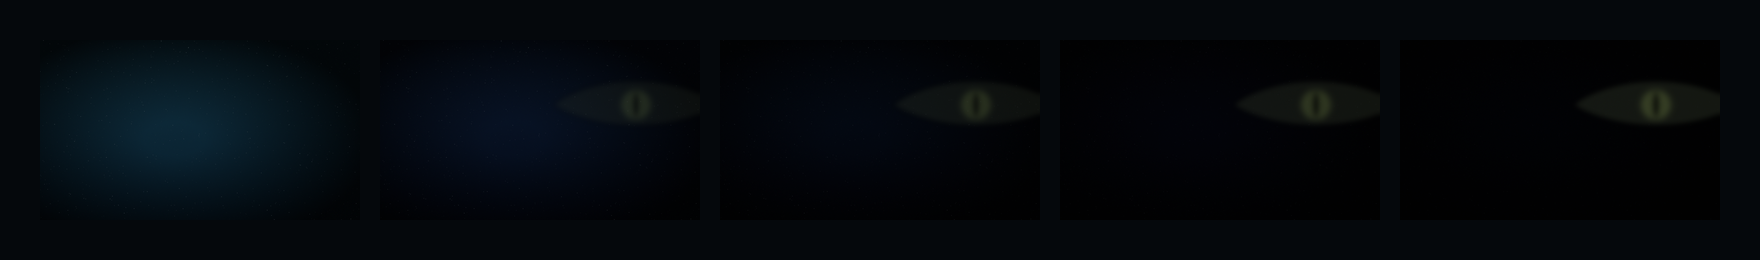
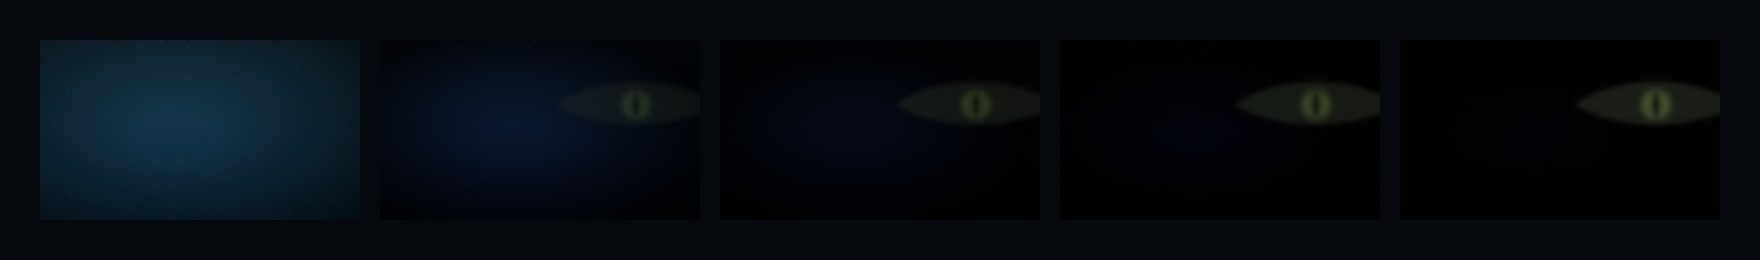
Improve zone contrast and visual distinction
- Increased brightness range: sunlit zone much lighter (28,65,85 top)
- Stronger color progression between zones
- Per-zone vignette intensity adjustment
- More visible eye in deeper zones (alpha 80->170)
- Brighter particles in shallow zones, dimmer in deep zones
- Now clearly distinguishable at a glance

Changed region(s): [[0.0, 0.1538, 0.2188, 0.4]]

diff --git a/art/render_zones.py b/art/render_zones.py
@@ -59,47 +59,52 @@ ZONES = [
     {
         "name": "zone-1-sunlit",
         "depth": "0-200m",
-        "top": (18, 52, 68),      # lighter teal
-        "bottom": (8, 28, 42),     # deeper teal
+        "top": (28, 65, 85),       # bright teal - much lighter
+        "bottom": (12, 38, 56),    # medium teal
         "eye_alpha": 0,            # no eye in sunlit
-        "particles_brightness": (180, 195, 200),
-        "particles_alpha_mult": 1.2,
+        "particles_brightness": (200, 215, 220),
+        "particles_alpha_mult": 1.5,
+        "vignette_mult": 0.7,      # less vignette in bright zone
     },
     {
         "name": "zone-2-twilight",
         "depth": "200-1000m",
-        "top": (12, 26, 48),       # indigo
-        "bottom": (4, 10, 22),     # dark indigo
-        "eye_alpha": 70,           # faint eye starts here
-        "particles_brightness": (170, 185, 190),
+        "top": (15, 32, 58),       # indigo - noticeable drop
+        "bottom": (5, 12, 28),     # dark indigo
+        "eye_alpha": 80,           # faint eye starts here
+        "particles_brightness": (160, 175, 185),
         "particles_alpha_mult": 1.0,
+        "vignette_mult": 1.0,
     },
     {
         "name": "zone-3-midnight",
         "depth": "1000-4000m",
-        "top": (6, 14, 26),        # blue-black
-        "bottom": (2, 4, 10),      # very dark blue
-        "eye_alpha": 90,           # eye slightly more visible
-        "particles_brightness": (150, 165, 170),
-        "particles_alpha_mult": 0.8,
+        "top": (8, 16, 32),        # blue-black - clear difference
+        "bottom": (2, 5, 14),      # very dark blue
+        "eye_alpha": 110,          # eye more visible
+        "particles_brightness": (140, 155, 165),
+        "particles_alpha_mult": 0.7,
+        "vignette_mult": 1.2,
     },
     {
         "name": "zone-4-abyssal",
         "depth": "4000-6000m",
-        "top": (4, 6, 14),         # ink black with violet hint
-        "bottom": (1, 2, 6),       # near black
-        "eye_alpha": 110,          # eye more prominent
-        "particles_brightness": (130, 140, 150),
-        "particles_alpha_mult": 0.6,
+        "top": (5, 8, 18),         # ink black with violet hint
+        "bottom": (1, 2, 8),       # near black
+        "eye_alpha": 140,          # eye prominent
+        "particles_brightness": (120, 130, 145),
+        "particles_alpha_mult": 0.5,
+        "vignette_mult": 1.4,
     },
     {
         "name": "zone-5-hadal",
         "depth": "6000m+",
-        "top": (2, 3, 8),          # absolute black with dark red hint
-        "bottom": (0, 1, 3),       # pure darkness
-        "eye_alpha": 130,          # eye most visible in deepest zone
-        "particles_brightness": (110, 120, 130),
-        "particles_alpha_mult": 0.4,
+        "top": (3, 4, 10),         # almost black with subtle red
+        "bottom": (1, 1, 4),       # pure darkness
+        "eye_alpha": 170,          # eye most visible
+        "particles_brightness": (100, 110, 125),
+        "particles_alpha_mult": 0.3,
+        "vignette_mult": 1.6,      # strongest vignette
     },
 ]
 
@@ -156,11 +161,12 @@ def render_zone(zone_config, width, height, scale):
     t = (yy / H)[..., None]
     sea = top * (1 - t) + bot * t
     
-    # --- Vignette ---
+    # --- Vignette (adjust intensity per zone) ---
+    vignette_strength = VIGNETTE_INTENSITY * zone_config.get("vignette_mult", 1.0)
     cx0 = W * VIGNETTE_CENTER_X
     cy0 = H * VIGNETTE_CENTER_Y
     dist = np.sqrt(((xx - cx0) / W) ** 2 + ((yy - cy0) / H) ** 2)[..., None]
-    sea *= np.clip(VIGNETTE_BRIGHTNESS - dist * VIGNETTE_INTENSITY, VIGNETTE_MIN, 1)
+    sea *= np.clip(VIGNETTE_BRIGHTNESS - dist * vignette_strength, VIGNETTE_MIN, 1)
     
     # --- Add texture noise ---
     sea += np.random.normal(0, SEA_NOISE_SIGMA, sea.shape)
